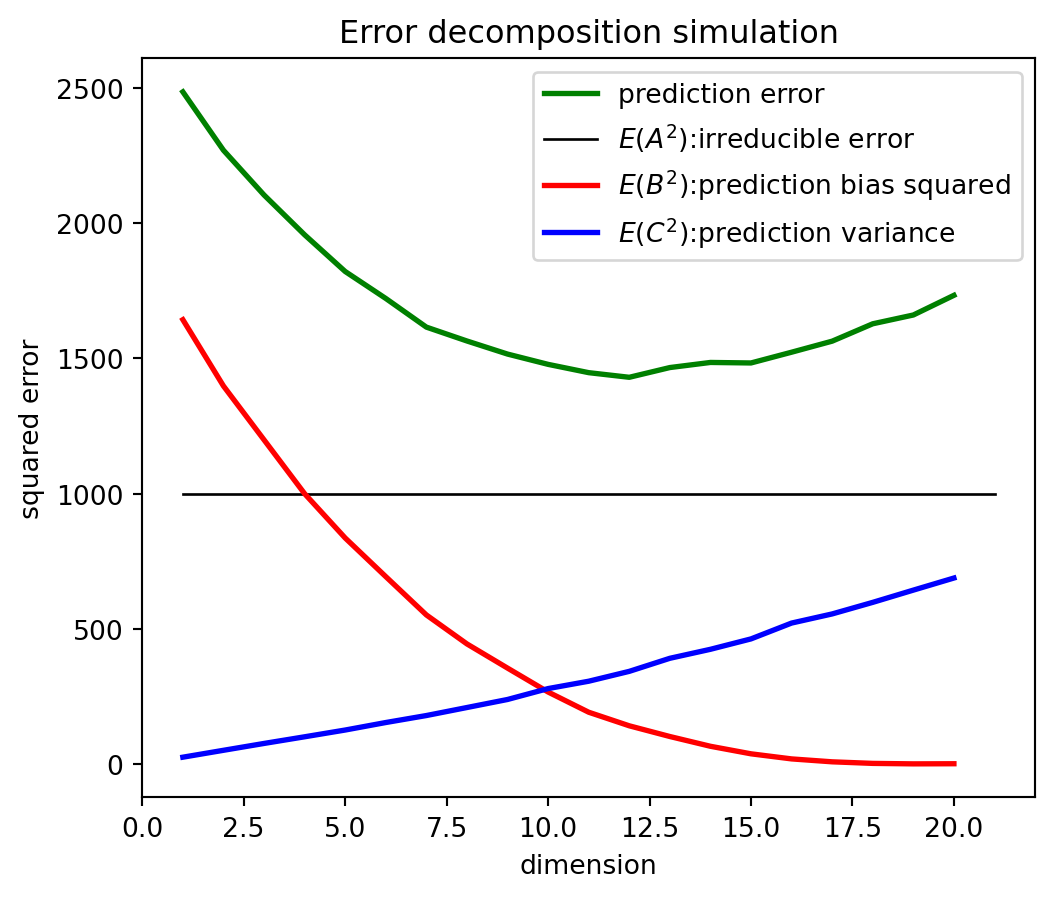
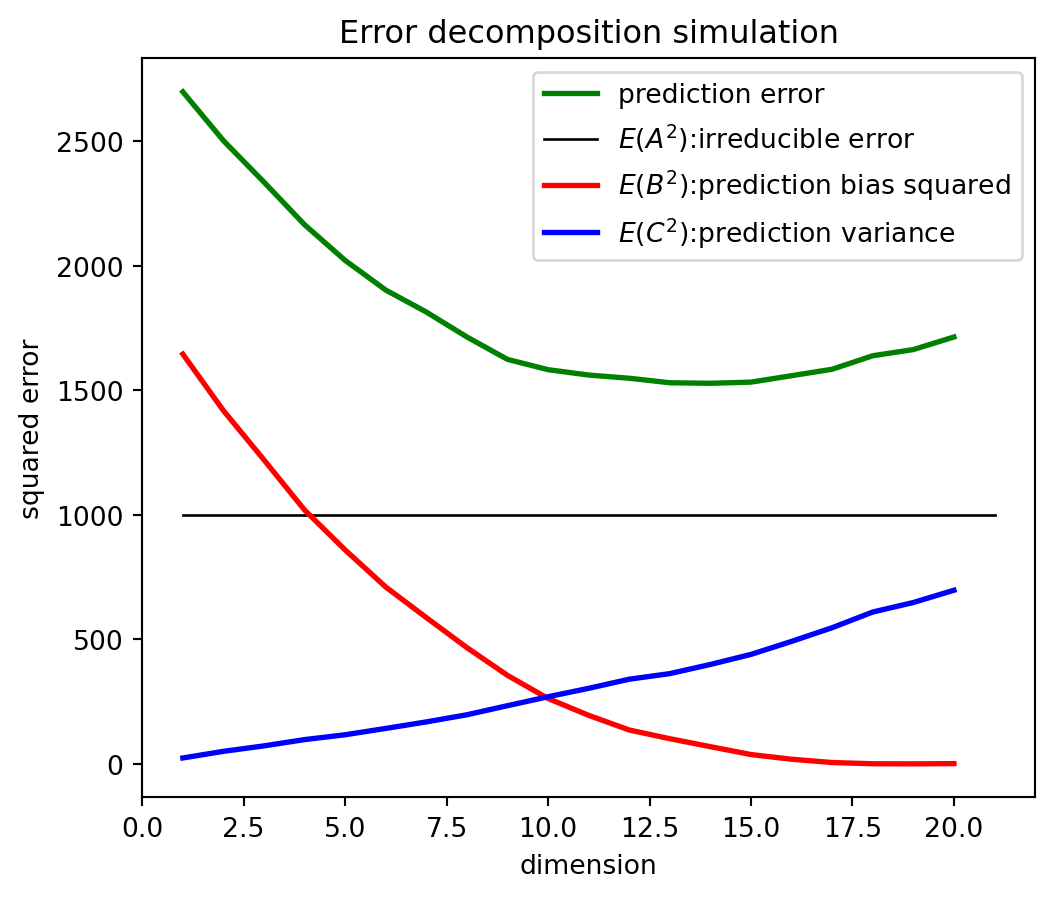
c02 touch ups

diff --git a/c02_bias_variance/c02_bias_variance.html b/c02_bias_variance/c02_bias_variance.html
@@ -450,7 +450,7 @@
 <div style="direction:rtl; font-size:16px">
 <p>נתמקד תחילה ברגרסיה, שם אנחנו מניחים שY הוא איזושהי פונקציה f של X ועוד רעש עם תוחלת אפס ושונות סיגמא בריבוע, לאו דוקא מהתפלגות נורמלית. מהו f אם ככה, אם התוחלת של אפסילון היא אפס? f הוא התוחלת המותנית של Y בהינתן הנתונים בX. הערך הנמדד של Y הוא לא בדיוק הערך הצפוי שלו, התוחלת, אלא התוחלת ועוד איזשהו רעש.</p>
 <p>כעת אנחנו לוקחים טריינינג דאטא T וממנו לומדים את f.&nbsp;אנחנו יכולים עכשיו לבדוק את הביצועים של המודל על מדגם הטסט, אבל אני רוצה שנחשוב על כל התהליך הזה של דגימת נתונים, בניית מודל f, למידה שלו מהנתונים - כעל תהליך אקראי. ולהסתכל על התוחלת של הלוס שלנו, לדוגמא ברגרסיה השגיאה הריבועית, על פני ביצוע התהליך הזה הרבה פעמים, אם היה לי טריינינג דאטא קצת שונה כל פעם. רוצה לומר גם f_hat המודל שבנינו הוא משתנה מקרי שמבוסס על מקריות מדגם הלמידה שלנו!</p>
-<p>אז תגיע תצפית חדשה X0 וכמו שאמרנו נסתכל על תוחלת הלוס שלה, כאן השגיאה בין Y0 האמיתי שלה, למודל שבנינו f_hat של X0. בהקשר לקו הירוק של פרדיקשן ארור שראינו בשקף הקודם אנחנו בעצם מסתכלים על נקודה בו ועושים לה תוחלת, או מסתכלים על ההתנהגות האופיינית שלה, על פני הרבה מדגמי למידה.</p>
+<p>אז תגיע תצפית חדשה X0 וכמו שאמרנו נסתכל על תוחלת הלוס שלה, כאן השגיאה בין Y0 האמיתי שלה, למודל שבנינו f_hat של X0.</p>
 <p>כעת אני רושם את ההפרש כסכום של כמה אלמנטים. כל מה שאני עושה זה לחסר ולהוסיף את f של X0, שהוא התלות האמיתית של Y0 בX0, התוחלת המותנית. וגם מחסר ומוסיף את התוחלת של f_hat. שוב, למה זה דבר שקיים לנו? כי f_hat הוא בעצמו מעין משתנה מקרי שכאילו נדגם מתוך הרבה מודלים סופיים שנובעים ממדגמי למידה שונים.</p>
 <p>כעת אנחנו פשוט שמים סוגריים ומסמנים אלמנט A, אלמנט B ואלמנט C. נרצה לפתח את הריבוע ולראות אכן ששגיאת החיזוי שלנו בתוחלת מתפרקת לביטויים מעניינים ולתת להם את השם המתמטי שלהם.</p>
 </div>
@@ -508,7 +508,7 @@
 <p>כעת כשאני מעלה את סכום שלושת הגורמים בריבוע אני מקבל את כל אחד מהם בריבוע ועוד 2 כפול מכפלה של כל זוג. כשאני לוקח תוחלת, אני טוען שאנחנו נשארים עם הביטוי שלפנינו. מדוע? נסתכל שוב על הגורמים שקיבלנו, בריבוע:</p>
 <p>התוחלת של A בריבוע היא התוחלת של אפסילון בריבוע, כלומר היא השונות של אפסילון, שהיא סיגמא בריבוע. אנחנו קוראים לזה irreducible error, זה הרעש הקיים בטבע, שגם תחת מודל מדויק לא נצליח להפחית. אפסילון לא תלוי בדאטא שלנו, בהגדרה אין לנו דאטא לחזות אותו.</p>
 <p>הגורם השני – B בריבוע – הוא כאמור קבוע, לא משתנה מקרי, והוא מבטא את האפרוקסימיישן ארור, עד כמה המודל שלנו בתוחלת עשיר מספיק וקרוב לf האמיתית. היינו רוצים שזה יהיה אפס, שלא תהיה הטיה בילט אין במודל שלנו. אבל אולי למשל לא הכנסנו את כל המשתנים שצריך, ויש הטיה, אז זאת מעין הטיה בריבוע, ואכן אנחנו קוראים לזה squared bias.</p>
-<p>הגורם השלישי – C בריבוע – הוא כמו שאמרנו הvariance של החיזוי בנקודה X0, וזה מדד לאסטימיישן ארור. מודל עם שונות נמוכה, גם אם אקח דאטא קצת אחר אקבל חיזוי מאוד דומה, האמידה תהיה יציבה. מודל עם שונות גבוהה – זוכרים את עצי ההחלטה? – אם אקח דאטא קצת אחר אקבל חיזוי שונה, האמידה לא יציבה. ואמרנו שמתכון לטיפול בטעות כזאת יכול להיות למשל להגדיל את מדגם הלמידה, כאן הוא בא לידי ביטוי. איפה ראינו את זה כבר, מתמטית? כשדיברנו על ממוצע המדגם המקרי, שהשונות שלו היא סיגמא בריבוע חלקי n, וככל שn גדול יותר ככה היא תקטן. הרי גם בממוצע המדגם אפשר לראות עם קצת מאמץ מודל חיזוי פשוט.</p>
+<p>הגורם השלישי – C בריבוע – הוא כמו שאמרנו הvariance של החיזוי בנקודה X0, וזה מדד לאסטימיישן ארור. מודל עם שונות נמוכה, גם אם אקח דאטא קצת אחר אקבל חיזוי מאוד דומה, האמידה תהיה יציבה. מודל עם שונות גבוהה – אם אקח דאטא קצת אחר אקבל חיזוי שונה, האמידה לא יציבה. מתכון לטיפול בטעות כזאת יכול להיות למשל להגדיל את מדגם הלמידה, כאן הוא בא לידי ביטוי.</p>
 <p>מה נשאר לנו? להראות שכל שאר הביטויים של מכפלות הם אפס.</p>
 <p>התוחלת של הגורם A, היא התוחלת של אפסילון, היא אפס. אז כל הביטוי של B כפול התוחלת של A הוא אפס.</p>
 <p>התוחלת של C, היא התוחלת של f_hat פחות התוחלת של f_hat, כלומר גם היא 0 וכל הביטוי של B כפול התוחלת של C הוא אפס.</p>
@@ -565,7 +565,7 @@
 <aside class="notes">
 <div style="direction:rtl; font-size:16px">
 <p>נראה כעת סימולציה שממחישה את הדפוס הזה יפה עם מודל ליניארי. יש לנו וקטור משתנים מסבירים X בגודל P = 20. והמקדמים שלו לפי הנוסחה הזאת, שורש 10, שורש 9.5 וכולי, כלומר הם הולכים וקטנים עד שורש חצי. המקדמים הראשונים הם הכי “חשובים, משפיעים” על Y והאחרונים פחות. זאת הf האמיתית שלנו, מודל ליניארי, אלה הם הבטאות.</p>
-<p>כעת תעניין אותנו תצפית חדשה לחיזוי X0 שהיא בעצם 1 בכל המשתנים, אם נחשב את Y0 נראה שהוא צריך להיות 43.6 ועוד איזשהו רעש אפסילון שנדגם מהתפלגות הרעש, כאן היא נורמלית. ויהיה לנו תקציב של 50 תצפיות בלבד.</p>
+<p>כעת תעניין אותנו תצפית חדשה לחיזוי X0 שהיא בעצם 1 בכל המשתנים, אם נחשב את Y0 נראה שהוא צריך להיות 43.6 ועוד איזשהו רעש אפסילון שנדגם מהתפלגות הרעש, כאן היא נורמלית עם שונות אלף. ויהיה לנו תקציב של 50 תצפיות בלבד.</p>
 <p>נייצר הרבה מדגמים עם היחס האמיתי הזה וכל פעם נבנה מודל f_hat אחר, על מדגמים שונים ועם מספר משתנים הולך וגדל, כלומר מורכב יותר ויותר. בצורה הזאת אנחנו יכולים לאמוד ממש אמפירית את שלושת הגדלים שחישבנו ולראות שהם מסתכמים בשגיאת החיזוי. מובן שאת הreducible error לא צריך לאמוד, היא ידועה בסימולציה.</p>
 </div>
 <style type="text/css">
@@ -582,7 +582,7 @@
 </section>
 <section class="slide level2">
 
-<div id="053b5d7a" class="cell" data-execution_count="2">
+<div id="7dde8722" class="cell" data-execution_count="2">
 <div class="sourceCode cell-code" id="cb1" data-code-line-numbers="|1-7|9|10-12|13|14|15-16|18-20|"><pre class="sourceCode numberSource python number-lines code-with-copy"><code class="sourceCode python"><span id="cb1-1"><a href=""></a>ntr <span class="op">=</span> <span class="dv">50</span></span>
 <span id="cb1-2"><a href=""></a>p <span class="op">=</span> <span class="dv">20</span></span>
 <span id="cb1-3"><a href=""></a>sigma_sq <span class="op">=</span> <span class="dv">1000</span></span>
@@ -610,7 +610,7 @@
 <p>כעת נחזור על 20 המודלים 1000 פעם כדי שנוכל לחשב ממוצע עליהם, כמו תוחלת.</p>
 <p>אנחנו מגרילים X עם 50 תצפיות ו-20 משתנים מהתפלגות נורמלית סטנדרטית. מחשבים את Y באמצעות המודל האמיתי f שהוא המודל הליניארי ומוסיפים את האפסילונים מהתפלגות נורמלית עם שונות 1000. לבסוף אנחנו דוגמים תצפית אמיתית שלא תהיה חלק מהמודל, Y0. למה Y0 שווה לסכום הבטאות ועוד רעש אפסילון? כי אמרנו שX0, התצפית החדשה, תהיה וקטור של אחדות.</p>
 <p>עכשיו אני בונה 20 מודלים, מתחיל ממשתנה אחד ומוסיף כל פעם משתנה למודל מורכב יותר ויותר עד 20 משתנים במודל.</p>
-<p>לכל מודל כזה מחשב את בטא-האט על מדגם הלמידה לפי הנוסחה המוכרת.</p>
+<p>לכל מודל כזה מחשב את בטא-האט על מדגם הלמידה לפי הנוסחה המוכרת לרגרסיה ליניארית, ואם לא מוכרת עוד נחזור עליה.</p>
 <p>ואז מחשב את החיזוי לתצפית החדשה X0, זה כאמור סכום האומדנים לבטאות, הבטא-האט. ואת טעות החיזוי, Y0 האמיתית פחות Y0 החזוי.</p>
 <p>עכשיו אני מחשב את תוחלת טעות החיזוי הריבועית. זה בעצם מיצוע של השגיאות בריבוע, לכל אחד מ20 המודלים על פני 1000 איטרציות. נחשב גם את ההטיה בריבוע, זה ממוצע החיזויים על פני 1000 איטרציות, פחות f0, התצפית האמיתית ללא רעש, וכל זה בריבוע. ולבסוף, התוחלת של C בריבוע זה בעצם שונות החיזוי כמו שראינו. איפה הגורם A בריבוע? אמרנו שלא צריך לאמוד אותו, זה סיגמא בריבוע שידועה בסימולציה, היא 1000.</p>
 </div>
@@ -628,7 +628,7 @@
 </section>
 <section class="slide level2">
 
-<div id="1aa19bba" class="cell" data-execution_count="3">
+<div id="3a67c60a" class="cell" data-execution_count="3">
 <div class="sourceCode cell-code" id="cb2"><pre class="sourceCode python code-with-copy"><code class="sourceCode python"><span id="cb2-1"><a href="" aria-hidden="true" tabindex="-1"></a>plt.plot(<span class="bu">range</span>(<span class="dv">1</span>, p <span class="op">+</span> <span class="dv">1</span>), pred_err, color<span class="op">=</span><span class="st">'green'</span>, lw<span class="op">=</span><span class="dv">2</span>, label<span class="op">=</span><span class="st">'prediction error'</span> )</span>
 <span id="cb2-2"><a href="" aria-hidden="true" tabindex="-1"></a>plt.plot([<span class="dv">1</span>, p <span class="op">+</span> <span class="dv">1</span>], [sigma_sq, sigma_sq], color<span class="op">=</span><span class="st">'black'</span>, lw<span class="op">=</span><span class="dv">1</span>, label<span class="op">=</span><span class="st">'$E(A^2)$:irreducible error'</span>)</span>
 <span id="cb2-3"><a href="" aria-hidden="true" tabindex="-1"></a>plt.plot(<span class="bu">range</span>(<span class="dv">1</span>, p <span class="op">+</span> <span class="dv">1</span>), pred_bias, color<span class="op">=</span><span class="st">'red'</span>, lw<span class="op">=</span><span class="dv">2</span>, label<span class="op">=</span><span class="st">'$E(B^2)$:prediction bias squared'</span>)</span>
@@ -649,9 +649,10 @@
 <aside class="notes">
 <div style="direction:rtl; font-size:16px">
 <p>ובאמת, כשאנחנו מסרטטים את טעות החיזוי, הirreducible error, ההטיה הריבועית והשונות מתקבל הדפוס הצפוי.</p>
-<p>הirreducible error היא כמובן קבוע, 1000, קו ישר. ההטיה בריבוע, הקו האדום, מתחיל מאוד גבוה ממודל פשטני מדי שכולל רק משתנה אחד ועד המודל הנכון עם 20 משתנים שיש לו הטיה אפס. אם אגב במודל רק 15 משתנים היו רלוונטיים, היינו מגיעים לאפס הזה מהר יותר, ב-15 משתנים. לבסוף שונות החיזוי, מתחילה מכמעט אפס עבור מודל פשטני עם משתנה אחד, 50 תצפיות מספיקות כדי להעריך את הפרמטר שלו במדויק. אבל השונות עולה ועולה ככל שהמודל מורכב יותר, 50 תצפיות פשוט לא מספיקות לשערך מודל עם 20 משתנים גם אם הוא נכון. שימו-לב שהיא עולה בצורה ליניארית, אפשר להוכיח למה זה תמיד קורה ברגרסיה ליניארית.</p>
-<p>ומה עם שגיאת החיזוי הריבועית, בשורה התחתונה? היא אכן בעלת צורת U שראינו, רק שעכשיו אנחנו מבינים ממש מתמטית איך הU נוצר. ואפשר לראות שבקירוב היא שווה לסכום שלוש השגיאות הריבועיות האחרות.</p>
+<p>הirreducible error היא כמובן קבוע, 1000, קו ישר. ההטיה בריבוע, הקו האדום, מתחיל מאוד גבוה ממודל פשטני מדי שכולל רק משתנה אחד ועד המודל הנכון עם 20 משתנים שיש לו הטיה אפס. אם אגב במודל רק 15 משתנים היו רלוונטיים, היינו מגיעים לאפס הזה מהר יותר, ב-15 משתנים. לבסוף שונות החיזוי, מתחילה מכמעט אפס עבור מודל פשטני עם משתנה אחד, 50 תצפיות מספיקות כדי להעריך את הפרמטר שלו במדויק. אבל השונות עולה ועולה ככל שהמודל מורכב יותר, 50 תצפיות פשוט לא מספיקות לשערך מודל עם 20 משתנים גם אם הוא נכון. שימו-לב שהיא עולה בצורה ליניארית, אנחנו נוכיח מאוחר יותר למה זה צפוי.</p>
+<p>ומה עם שגיאת החיזוי הריבועית, בשורה התחתונה? אפשר לראות שבקירוב היא שווה לסכום שלוש השגיאות הריבועיות האחרות. והיא בעלת צורת U: עם מעט מדי משתנים שגיאת ההטיה גבוהה מאוד אבל השונות נמוכה ובסך הכל שגיאת החיזוי הריבועית גבוהה. איפשהו באמצע עם 10-12 משתנים ההטיה והשונות מספיק נמוכות ואנחנו משיגים מינימום בשגיאת החיזוי הריבועית. ועם כל המשתנים במודל, ההטיה אכן מגיעה לאפס, זה המודל הנכון, אבל אין מספיק תצפיות לאמוד אותו, יש רק 50 תצפיות. השונות גבוהה כל כך על פני הרבה מדגמי למידה, כך שבסך הכל גם שגיאת החיזוי על פני נתונים שהמודל לא ראה גבוהה מאוד.</p>
 <p>שימו-לב שוב, זה נכון שהמודל עם 20 משתנים הוא הוא הנכון ביותר. אבל עם תקציב של 50 תצפיות, המסר הוא שניתן לשערך היטב מודל של כ12, משתנים בלבד.</p>
+<p>עד כאן פירוק הביאס-וריאנס ברגרסיה שמסביר את עקומת הU שנראה בדרך כלל על מדגם הטסט שלנו, כפונקציה של גמישות המודל. ממודל פשטני מדי אבל שלא משתנה על פני הרבה מדגמי למידה, ועד מודל מורכב מדי שמסוגל לתאר יחס מורכב בין איקס לוואי, אבל היכולת שלנו לאמוד אותו מוגבלת בלי המון נתונים. העיקרון הזה נכון לא רק לרגרסיה אלא גם לקלסיפיקציה, ועל כך נדבר בהמשך.</p>
 </div>
 <style type="text/css">
         span.MJX_Assistive_MathML {
@@ -689,9 +690,9 @@
 <div>
 <ul>
 <li class="fragment">Let <span class="math inline">\(y \in \{0, 1, \dots, J - 1\}\)</span></li>
-<li class="fragment">For a classifier <span class="math inline">\(\hat{f}(x)\)</span>, define the indicator <span class="math inline">\(I(y \neq \hat{y})\)</span></li>
-<li class="fragment">For a sample <span class="math inline">\(T = \{(x_1, y_1 ) \dots (x_n, y_n)\}\)</span> the <span style="color:red;">training error</span> (misclassification rate) is: <span class="math inline">\(\frac{1}{n}\sum_i I(y_i \neq \hat{y}_i)\)</span></li>
-<li class="fragment">For unknown observations <span class="math inline">\((x_0, y_0)\)</span> we are interested in the <em>expected</em> error rate, but we look at <span style="color:red;">test error</span>: <span class="math inline">\(\frac{1}{m}\sum_i I(y_{i,0} \neq \hat{y}_{i,0})\)</span></li>
+<li class="fragment">For a classifier <span class="math inline">\(\hat{f}(x)\)</span>, define the indicator <span class="math inline">\(\mathbb{I}\left[y \neq \hat{y}\right]\)</span></li>
+<li class="fragment">For a sample <span class="math inline">\(T = \{(x_1, y_1 ) \dots (x_n, y_n)\}\)</span> the <span style="color:red;">training error</span> (misclassification rate) is: <span class="math inline">\(\frac{1}{n}\sum_i \mathbb{I}\left[y_i \neq \hat{y}_i\right]\)</span></li>
+<li class="fragment">For unknown observations <span class="math inline">\((x_0, y_0)\)</span> we are interested in the <em>expected</em> error rate, but we look at <span style="color:red;">test error</span>: <span class="math inline">\(\frac{1}{m}\sum_i \mathbb{I}\left[y_{i,0} \neq \hat{y}_{i,0}\right]\)</span></li>
 <li class="fragment">This error rate can be decomposed into three terms as well!</li>
 </ul>
 </div>
@@ -722,7 +723,7 @@
 
 <h3 id="bayes-decision-boundary">Bayes decision boundary</h3>
 <p>Assume the conditional probability <span class="math inline">\(P(Y = 1 | X)\)</span> is a nice, slowly changing function of <span class="math inline">\(X\)</span>:</p>
-<div id="ba72e5c4" class="cell" data-execution_count="4">
+<div id="5fddf0f4" class="cell" data-execution_count="4">
 <div class="cell-output cell-output-display">
 <div>
 <figure>
@@ -779,11 +780,11 @@
 <section class="slide level2">
 
 <h3 id="how-is-bayes-classifier-best">How is Bayes classifier “best”?</h3>
-<p><span class="math inline">\(E_Y(I(y \neq \hat{y})| X) = P(Y = 1 | X) \cdot I(\hat{y} = 0) + P(Y = 0 | X) \cdot I(\hat{y} = 1)\)</span></p>
+<p><span class="math inline">\(E_Y(\mathbb{I}\left[y \neq \hat{y}\right]| X) = P(Y = 1 | X) \cdot \mathbb{I}\left[\hat{y} = 0\right] + P(Y = 0 | X) \cdot \mathbb{I}\left[\hat{y} = 1\right]\)</span></p>
 <div>
 <ul>
-<li class="fragment">Suppose <span class="math inline">\(P(Y = 1 | X) = 0.7\)</span>, between <span class="math inline">\(\hat{y} \in \{0, 1\} \Rightarrow\)</span> choose <span class="math inline">\(\hat{y} = 1\)</span> to minimize <span class="math inline">\(E_Y(I(y \neq \hat{y})| X)\)</span></li>
-<li class="fragment">Suppose <span class="math inline">\(P(Y = 1 | X) = 0.3\)</span>, between <span class="math inline">\(\hat{y} \in \{0, 1\} \Rightarrow\)</span> choose <span class="math inline">\(\hat{y} = 0\)</span> to minimize <span class="math inline">\(E_Y(I(y \neq \hat{y})| X)\)</span></li>
+<li class="fragment">Suppose <span class="math inline">\(P(Y = 1 | X) = 0.7\)</span>, between <span class="math inline">\(\hat{y} \in \{0, 1\} \Rightarrow\)</span> choose <span class="math inline">\(\hat{y} = 1\)</span> to minimize <span class="math inline">\(E_Y(\mathbb{I}\left[y \neq \hat{y}\right]| X)\)</span></li>
+<li class="fragment">Suppose <span class="math inline">\(P(Y = 1 | X) = 0.3\)</span>, between <span class="math inline">\(\hat{y} \in \{0, 1\} \Rightarrow\)</span> choose <span class="math inline">\(\hat{y} = 0\)</span> to minimize <span class="math inline">\(E_Y(\mathbb{I}\left[y \neq \hat{y}\right]| X)\)</span></li>
 <li class="fragment">Put differently the Bayes classifier <span class="math inline">\(\hat{f}(x) = \arg\max_j P(Y = j | X = x)\)</span> minimizes expected error rate!</li>
 </ul>
 </div>
@@ -811,7 +812,7 @@
 <section class="slide level2">
 
 <h3 id="the-bayes-classifier-is-purely-theoretical">The Bayes classifier is purely theoretical!</h3>
-<div id="f27712d3" class="cell" data-execution_count="5">
+<div id="11c2c5f7" class="cell" data-execution_count="5">
 <div class="cell-output cell-output-display">
 <div>
 <figure>
@@ -825,7 +826,7 @@
 </div>
 <aside class="notes">
 <div style="direction:rtl; font-size:16px">
-<p>הבייס קלסיפייר הוא אורקל, מונח תיאורטי בלבד, שלו היינו יודעים את מפת ההסתברות הוא היה אופטימלי. ונשים לב שבפועל נקודות נדגמות על-פי הסתברות, המתחמים של הקלאסים הם לא דטרמיניסטיים עבור דאטא טיפוסי ויש ביניהם חפיפה. וגם עבור דאטה שהמודל רואה ויודע את מפת ההסתברות ובוחר בבייס קלסיפייר - יש טעויות.</p>
+<p>הבייס קלסיפייר הוא אורקל, מונח תיאורטי בלבד, שלו היינו יודעים את מפת ההסתברות הוא היה אופטימלי. ונשים לב שבפועל נקודות נדגמות על-פי הסתברות, המתחמים של הקלאסים הם לא דטרמיניסטיים עבור דאטא טיפוסי ויש ביניהם חפיפה. וגם עבור דאטה שהמודל רואה ויודע את מפת ההסתברות ובוחר בבייס קלסיפייר - יש טעויות. זה מאוד מזכיר אירדוסיבל ארור.</p>
 </div>
 <style type="text/css">
         span.MJX_Assistive_MathML {
@@ -895,7 +896,7 @@
 <li>Classification rule for new observation <span class="math inline">\(x_0\)</span>:
 <ul>
 <li>Let the <span class="math inline">\(K\)</span>-neighborhood <span class="math inline">\(\mathcal{N}(x_0)\)</span> the <span class="math inline">\(K\)</span> points closest to <span class="math inline">\(x_0\)</span> in <span class="math inline">\(T\)</span></li>
-<li><span class="math inline">\(\hat{f}(x_0) = \arg\max_j \left[\sum I(y(x) = j) | x' \in \mathcal{N}(x_0)\right]\)</span></li>
+<li><span class="math inline">\(\hat{f}(x_0) = \arg\max_j \left[\sum \mathbb{I}\left[y(x) = j\right] | x' \in \mathcal{N}(x_0)\right]\)</span></li>
 </ul></li>
 </ul>
 <div class="fragment">
@@ -924,7 +925,7 @@
 <section class="slide level2">
 
 <h3 id="knn-vs.-bayes-classifier">KNN vs.&nbsp;Bayes classifier</h3>
-<div id="f5c6ecb4" class="cell" data-execution_count="6">
+<div id="4b280e11" class="cell" data-execution_count="6">
 <div class="cell-output cell-output-display">
 <div>
 <figure>
@@ -955,7 +956,7 @@
 <section class="slide level2">
 
 <h3 id="knn-and-bias-variance-tradeoff">KNN and bias-variance tradeoff</h3>
-<div id="be2e1430" class="cell" data-execution_count="7">
+<div id="7219abe8" class="cell" data-execution_count="7">
 <div class="cell-output cell-output-display">
 <div>
 <figure>
@@ -999,7 +1000,7 @@
 <section class="slide level2">
 
 <h3 id="how-to-choose-k">How to choose <span class="math inline">\(K\)</span>?</h3>
-<div id="e1a493d9" class="cell" data-execution_count="8">
+<div id="bf80058b" class="cell" data-execution_count="8">
 <div class="cell-output cell-output-display">
 <div>
 <figure>
@@ -1017,10 +1018,11 @@
 <aside class="notes">
 <div style="direction:rtl; font-size:16px">
 <p>לפעמים יש לנו הבנה חזקה יותר בדומיין של הדאטה שבו אנחנו עוסקים ויכולות להיות לנו סיבות טובות לבחור בK ספציפי, עם משמעות אינהרנטית לבעיה, כמו למשל אם היינו צריכים לחזות תכונה גנטית של אדם והשכונה שהיינו בוחרים היתה המשפחה שלו.</p>
-<p>ברוב המקרים אנחנו נשתמש באסטרטגיה של חלוקת הדאטה לטריין ולטסט כמו כאן, ונבחר את הK שמביא למינימום את טעות החיזוי על מדגם הטסט.</p>
+<p>ברוב המקרים אנחנו נשתמש באסטרטגיה של חלוקת הדאטה לטריין ולטסט כמו כאן, ונבחר את הK שמביא למינימום את טעות החיזוי על מדגם הטסט. במקרה הזה אנחנו חוזרים על הניסוי התיאורטי שמייצר את הנתונים שרצינו מספר פעמים, מחלקים את הדאטא לטריין וטסט, לומדים על הטריין, מחשבים מיסקלסיפיקיישן על הטסט, וממצעים.</p>
 <p>כאן אפשר לראות את טעות החיזוי כפונקציה של 1 חלקי K, כי אנחנו רגילים לראות את הגרף הזה שנע ממודל מאוד פשוט ולא מורכב, ועד מודל מאוד גמיש ומורכב מדי, כלומר אנחנו רוצים לראות את K יורד. שני דברים שאנחנו מצפים לראות בגרף החיזוי של KNN ומתקיימים כאן:</p>
 <p>הארור של מדגם הלמידה, לא הטסט, עבור K = 1 יורד לאפס! כי עבור כל תצפית נחזה את הקלאס שלה עצמה. מה שממחיש את הבעייתיות בהסתכלות על מדגם הלמידה.</p>
 <p>ועוד תופעה שצפינו, KNN במיטבו מתקרב לטעות החיזוי של הבייס קלסיפיר שמסומנת כאן בקו שחור מקווקוו, אבל לא מצליחה לרדת ממנו. זו טעות אירדוסיבל. בכל מקרה כאן נראה שהK הטוב ביותר הוא בסביבות 30, עבורו היינו מקבלים טעות חיזוי של כ-25 אחוזים.</p>
+<p>עד כאן שני השיעורים הראשונים שלנו שעוסקים במושגים כלליים של למידה כמו טעות חיזוי, ביאס-וריאנס ואוברפיטינג. בשיעורים הבאים נתמקד במודל הליניארי, אולי מודל הלמידה הישן ביותר והנחקר ביותר בספרות, מודל שצריך לשמש כבייסליין בכל פרויקט של למידה סטטיסטית מנתונים.</p>
 </div>
 <style type="text/css">
         span.MJX_Assistive_MathML {
